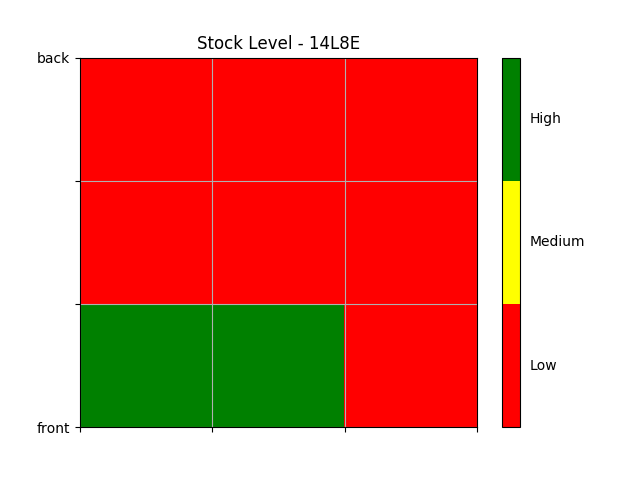
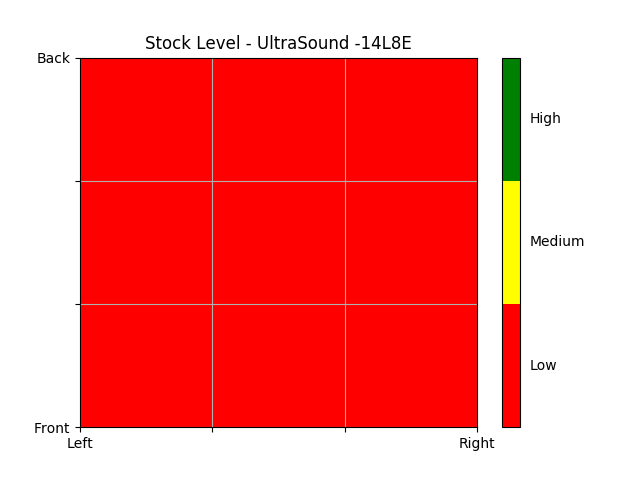
added logging shelf data to SQLite3 db

diff --git a/Python/mysite/personal/templates/personal/header.html b/Python/mysite/personal/templates/personal/header.html
@@ -93,13 +93,13 @@
               <div class="col-sm-4">
                   <br>
                   <center>
-                  <img src="{% static 'img/14L8E.png' %}" class="responsive-img" style='max-height:500px;' alt="face">
+                  <img src="{% static 'img/UltraSonic14L8E.png' %}" class="responsive-img" style='max-height:500px;' alt="face">
                   </center>
               </div>
               <div class="col-sm-4">
                   <br>
                   <center>
-                  <img src="{% static 'img/15R2A.png' %}" class="responsive-img" style='max-height:500px;' alt="face">
+                  <img src="{% static 'img/UltraSonic15R2A.png' %}" class="responsive-img" style='max-height:500px;' alt="face">
                   </center>
               </div>
         </div><hr>

diff --git a/Python/Calculations/stockPercentage.py b/Python/Calculations/stockPercentage.py
@@ -4,14 +4,6 @@ class StockPercentage:
     ifEmpty = "Fill me UP!"
     count =0
 
-def checkStock(XYGrid, XYGridList):
-    count = 0
-    for XYGrid in XYGridList:
-        if XYGrid.distance < 20:
-            count = count +1
-    percentage = (count/XYGridList.__len__())
-    return percentage
-
 def SingleEmptyFull(shelfHeight, measurementCM):
     PercFull = measurementCM / shelfHeight
     if (PercFull < 1/3):
@@ -28,29 +20,36 @@ def UnitsToFill(singleshelf, ProductList, XYGridList,):
     
     shelfHeight = singleshelf.height
     shelfLocation = singleshelf.location
-    print("height=", shelfHeight, "loc=", shelfLocation)
     # Work out percentage of volume filled
     singleshelf.volumePercentFull = ShelfAvgVolumePercentFull(shelfLocation, shelfHeight, XYGridList)
     # Convert to available space in cm^3
-    availablevolume = ShelfOccupiedVolume (singleshelf)
+    availablevolume = ShelfAvailableVolume (singleshelf)
+    occupiedVolume = ShelfOccupiedVolume(singleshelf)
     # Calculate number of units to fill the space
-    singleshelf.unitsOfSpace = int(availablevolume / productVolume) 
-    return singleshelf.unitsOfSpace
+    singleshelf.unitsOccupied = int (occupiedVolume / productVolume)
+    singleshelf.unitsOfSpace = int(availablevolume / productVolume)
 
 def ShelfAvgVolumePercentFull (shelfLocation, shelfHeight, XYGridList):
     averagePercentageFullSum = 0 
     for XYGrid in XYGridList:
         if (XYGrid.shelflocation == shelfLocation):
             sensorMeasurement = XYGrid.distance
-            percentageFull = ((shelfHeight - sensorMeasurement) /shelfHeight)  
+            percentageFull = 1 - ( (sensorMeasurement - 4) /shelfHeight)  
             averagePercentageFullSum = averagePercentageFullSum + percentageFull
     print("avg%fullsum=", averagePercentageFullSum)
     averagePercentageFull =round((averagePercentageFullSum /9),2)
+    if averagePercentageFull < 0.001 and averagePercentageFull > -0.05:
+        averagePercentageFull = 0
     return averagePercentageFull
 
-def ShelfOccupiedVolume (singleShelf):
+def ShelfAvailableVolume (singleShelf):
     shelfVolume = singleShelf.height * singleShelf.width * singleShelf.depth
     OccupiedVolume = singleShelf.volumePercentFull * shelfVolume
     print(singleShelf.location, "volume = ", shelfVolume, "volpercenfull=", singleShelf.volumePercentFull, "occupiedvolume=", OccupiedVolume)
     AvailableVolume = shelfVolume - OccupiedVolume
     return AvailableVolume
+
+def ShelfOccupiedVolume (singleShelf):
+    shelfVolume = singleShelf.height * singleShelf.width * singleShelf.depth
+    OccupiedVolume = singleShelf.volumePercentFull * shelfVolume
+    return OccupiedVolume

diff --git a/Python/test.py b/Python/test.py
@@ -1,34 +1,23 @@
-import matplotlib.pyplot as plt
-import numpy as np
-from matplotlib.colors import ListedColormap
+import sqlite3
+import datetime
+import time
+import CreateDB
 
-#discrete color scheme
-cMap = ListedColormap(['green', 'yellow','red'])
+#CreateDB.createDB()
+# Creates or opens a file called mydb with a SQLite3 DB
+db = sqlite3.connect(CreateDB.dbName)
 
-#data
-np.random.seed(42)
-data = np.random.rand(4, 4)
-fig, ax = plt.subplots()
-heatmap = ax.pcolor(data, cmap=cMap)
+# Get a cursor object
+cursor = db.cursor()
 
-#legend
-cbar = plt.colorbar(heatmap)
+cursor.execute('''
+    CREATE TABLE shelfGridTable(id INTEGER PRIMARY KEY, shelfLocation TEXT, TPNB TEXT, 
+        unitsOfStock INTEGER, percentageFull REAL, timestamp TEXT) ''')
+db.commit()
 
-cbar.ax.get_yaxis().set_ticks([])
-for j, lab in enumerate(['$0$','$1$','$2$','$>3$']):
-    cbar.ax.text(.5, (2 * j + 1) / 8.0, lab, ha='center', va='center')
-cbar.ax.get_yaxis().labelpad = 15
-cbar.ax.set_ylabel('# of contacts', rotation=270)
-
-# put the major ticks at the middle of each cell
-ax.set_xticks(np.arange(data.shape[1]) + 0.5, minor=False)
-ax.set_yticks(np.arange(data.shape[0]) + 0.5, minor=False)
-ax.invert_yaxis()
-
-#lebels
-column_labels = list('012')
-row_labels = list('012')
-ax.set_xticklabels(column_labels, minor=False)
-ax.set_yticklabels(row_labels, minor=False)
-
-plt.show()
+cursor.execute('''SELECT id, shelfLocation, TPNB, unitsOfStock, percentageFull, timestamp FROM shelfGridTable''')
+all_rows = cursor.fetchall()
+print("ID: shelfLocation, TPNB, unitsOfStock, percentageFull, timestamp")
+for row in all_rows:
+    # row[0] returns the first column in the query (name), row[1] returns email column.
+    print('{0} : {1}, {2}, {3}, {4}, {5}'.format(row[0], row[1], row[2], row[3], row[4], row[5]))

diff --git a/Python/Main/main.py b/Python/Main/main.py
@@ -5,6 +5,7 @@ import Objects.XYGrid as XYGridObject
 import Objects.shelf as ShelfObject
 import Objects.product as ProductObject
 import WebPage.API as test
+import InsertDB as insertDB
 
 ProductList = ProductObject.makeProductGrid()
 XYGridList = XYGridObject.MakeXYGrid()
@@ -16,17 +17,21 @@ for singleshelf in ShelfList:
 
     print(singleshelf.location, "is", singleshelf.volumePercentFull*100, "% full and can fit", singleshelf.unitsOfSpace, "more units of X")
     heatmap.MakeHeatMap(singleshelf.height, XYGridList, singleshelf.location)
-
-print("XYGrid=")
-for XYGrid in XYGridList:
-    print(XYGrid.shelflocation,",",XYGrid.idpos,",",XYGrid.xpos,",",XYGrid.ypos,",",XYGrid.distance)
-
-print("ShelfGrid=")
-for Shelf in ShelfList:
-    print(Shelf.location,",",Shelf.height,",",Shelf.width,",",Shelf.depth,",",Shelf.volumePercentFull,",", Shelf.areaFull,",",Shelf.unitsOfSpace)
-
-print("ProductList")
-for Product in ProductList:
-    print(Product.name, ",", Product.tpnb, ",",Product.height, ",",Product.width, ",",Product.depth, ",",Product.weight)
+    
+    insertDB.insertShelfRecord(singleshelf.location, singleshelf.tpnb, singleshelf.unitsOccupied, singleshelf.volumePercentFull)
+    
+# print("XYGrid=")
+# for XYGrid in XYGridList:
+#     print(XYGrid.shelflocation,",",XYGrid.idpos,",",XYGrid.xpos,",",XYGrid.ypos,",",XYGrid.distance)
+# 
+# print("ShelfGrid=")
+# for Shelf in ShelfList:
+#     print(Shelf.location,",",Shelf.height,",",Shelf.width,",",Shelf.depth,",",Shelf.volumePercentFull,",", Shelf.areaFull,",",Shelf.unitsOfSpace)
+# 
+# print("ProductList")
+# for Product in ProductList:
+#     print(Product.name, ",", Product.tpnb, ",",Product.height, ",",Product.width, ",",Product.depth, ",",Product.weight)
+    
+insertDB.printShelfDB()
 
 test.startfunction()

diff --git a/Python/InsertDB.py b/Python/InsertDB.py
@@ -1,0 +1,28 @@
+import sqlite3
+import datetime
+import time
+import CreateDB
+
+def insertShelfRecord(shelfLocation, TPNB, unitsOfStock, percentageFull):
+    # Creates or opens a file called mydb with a SQLite3 DB
+    db = sqlite3.connect(CreateDB.dbName)
+    cursor = db.cursor()
+    
+    ts = time.time()
+    timestamp = datetime.datetime.fromtimestamp(ts).strftime('%Y-%m-%d %H:%M:%S')
+     
+    # Insert row 
+    cursor.execute('''INSERT INTO shelfGridTable(shelfLocation, TPNB, unitsOfStock, percentageFull, timestamp)
+                      VALUES(?,?,?,?,?)''', (shelfLocation, TPNB, unitsOfStock, percentageFull, timestamp))
+    db.commit()
+
+def printShelfDB():
+    db = sqlite3.connect(CreateDB.dbName)
+    cursor = db.cursor()
+    
+    cursor.execute('''SELECT id, shelfLocation, TPNB, unitsOfStock, percentageFull, timestamp FROM shelfGridTable''')
+    all_rows = cursor.fetchall()
+    print("ID: shelfLocation, TPNB, unitsOfStock, percentageFull, timestamp")
+    for row in all_rows:
+        # row[0] returns the first column in the query (name), row[1] returns email column.
+        print('{0} : {1}, {2}, {3}, {4}, {5}'.format(row[0], row[1], row[2], row[3], row[4], row[5]))

diff --git a/Python/Graphing/Heatmap.py b/Python/Graphing/Heatmap.py
@@ -33,7 +33,7 @@ def MakeHeatMap(shelfHeight, XYGridList, ShelfName):
             lab = "High"
         cbar.ax.text(1.5, (2 * j + 1) / 6.0, lab, ha='left', va='center')
         
-    plt.title("Stock Level - UltraSound -" + ShelfName)
+    plt.title("Stock Level - UltraSonic -" + ShelfName)
     
     plt.xticks([0, 1, 2, 3])
     plt.yticks([0, 1, 2, 3])
@@ -42,4 +42,5 @@ def MakeHeatMap(shelfHeight, XYGridList, ShelfName):
     
     ax.set_xticklabels(['Left','','','Right'])
     ax.set_yticklabels(['Front','','','Back'])
-    fig.savefig("mysite/personal/static/img/UltraSound" + ShelfName + ".png")
+    
+    fig.savefig("mysite/personal/static/img/UltraSonic" + ShelfName + ".png")

diff --git a/Python/Objects/shelf.py b/Python/Objects/shelf.py
@@ -7,10 +7,11 @@ class Shelf(object):
         self.volumePercentFull = 0
         self.areaFull = 0
         self.tpnb = tpnb
+        self.unitsOccupied = 0
         self.unitsOfSpace = 0
 
 def makeShelfGrid(): 
     MadeList = []
-    MadeList.append(Shelf("14L8E", 30.0, 50.0, 20.0, "062609056"))
-    MadeList.append(Shelf("15R2A", 30.0, 50.0, 20.0, "050060399"))
+    MadeList.append(Shelf("14L8E", 22.54, 50.0, 20.0, "062609056"))
+    MadeList.append(Shelf("15R2A", 22.54, 50.0, 20.0, "050060399"))
     return MadeList

diff --git a/Python/CreateDB.py b/Python/CreateDB.py
@@ -1,0 +1,17 @@
+import sqlite3
+import datetime
+import time
+
+dbName = "Database\\database.db"
+
+def createDB():
+    # Creates or opens a file called mydb with a SQLite3 DB
+    db = sqlite3.connect(dbName)
+    
+    # Get a cursor object
+    cursor = db.cursor()
+    
+    cursor.execute('''
+        CREATE TABLE shelfGridTable(id INTEGER PRIMARY KEY, shelfLocation TEXT, TPNB TEXT, 
+            unitsOfStock INTEGER, percentageFull REAL, timestamp TEXT) ''')
+    db.commit()
